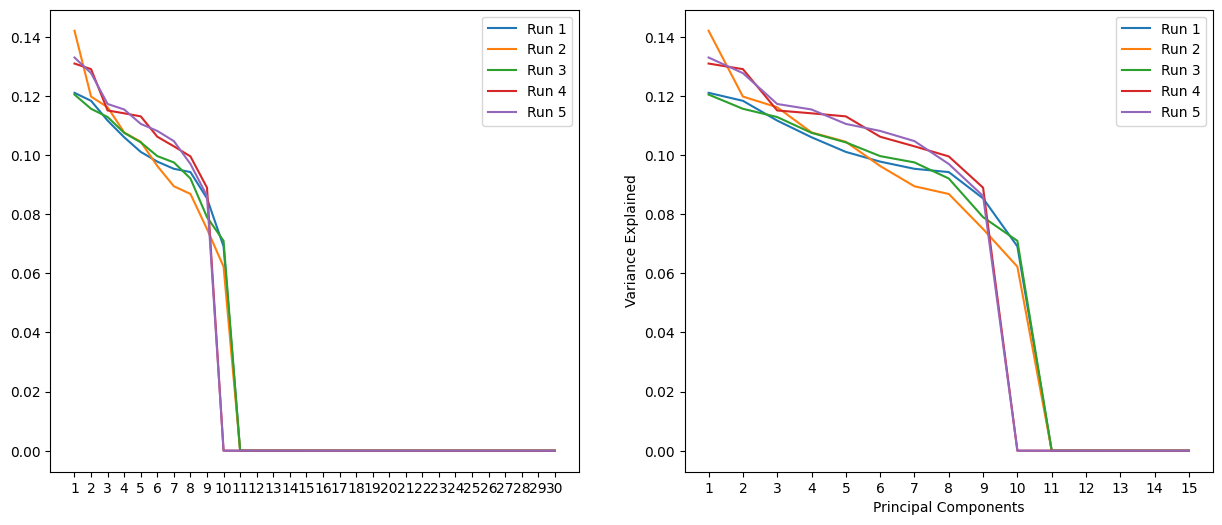
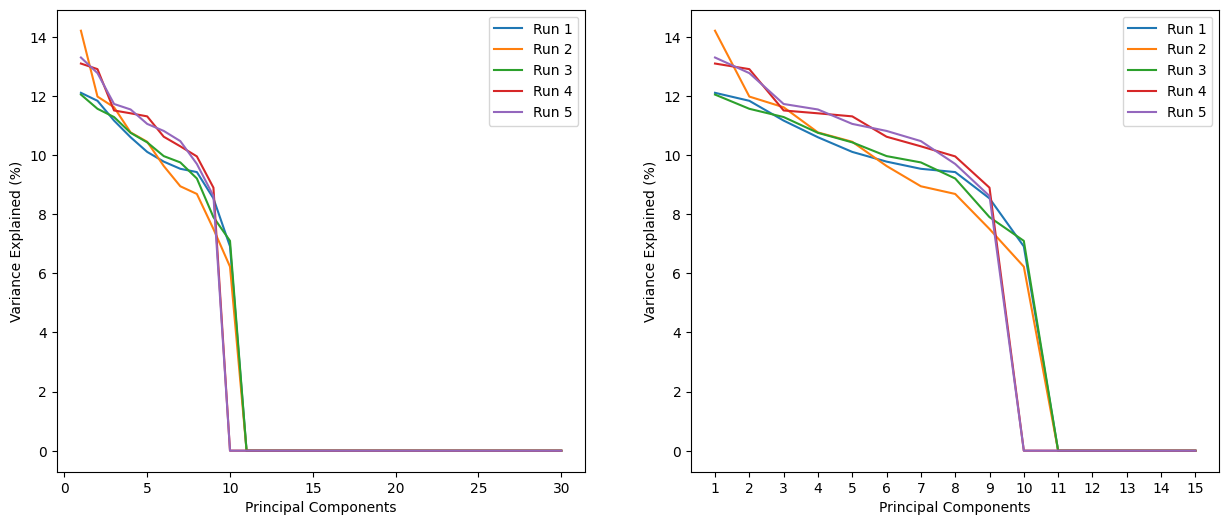
Code

diff --git a/reconstructions.py b/reconstructions.py
@@ -25,7 +25,7 @@ tfd = tfp.distributions
 
 
 
-run = 2
+run = 3
 encoding_dim = 30
 n_flows = 0
 beta = 0.0001
@@ -371,33 +371,78 @@ vae.load_weights("Variational Eagle/Weights/Normalising Flow Balanced/planar_new
 extracted_features = np.load("Variational Eagle/Extracted Features/Normalising Flow Balanced/planar_new_latent_" + str(encoding_dim) + "_beta_" + beta_name + "_epoch_" + str(epochs) + "_flows_" + str(n_flows) + "_" + str(run) + "_default_transformed.npy")
 
 
-pca = PCA(n_components=0.999, svd_solver="full").fit(extracted_features)
-pca_top = PCA(n_components=4, svd_solver="full").fit(extracted_features)
+
+
+
+# pca = PCA(n_components=0.999, svd_solver="full").fit(extracted_features)
+# pca_top = PCA(n_components=4, svd_solver="full").fit(extracted_features)
+#
+#
+# # number of images to reconstruct
+# n = 12
+#
+#
+# # get the images to reconstruct
+# random.seed(5)
+# reconstruction_indices = random.sample(range(train_images.shape[0]), n)
+# extracted_features = extracted_features[reconstruction_indices]
+#
+#
+# pca_features = pca.transform(extracted_features)
+# pca_features = pca.inverse_transform(pca_features)
+#
+# pca_features_top = pca_top.transform(extracted_features)
+# pca_features_top = pca_top.inverse_transform(pca_features_top)
+#
+# reconstructions = vae.decoder.predict(extracted_features)
+# pca_reconstructions = vae.decoder.predict(pca_features)
+# pca_reconstructions_top = vae.decoder.predict(pca_features_top)
+#
+# original_images = train_images[reconstruction_indices]
+#
+# fig, axs = plt.subplots(4, n, figsize=(n*10, 40))
+#
+# for i in range(0, n):
+#
+#     axs[0][i].imshow(original_images[i])
+#     axs[0][i].set_aspect("auto")
+#     axs[0][i].tick_params(axis='both', which='both', length=0, labelbottom=False, labelleft=False)
+#
+#     axs[1][i].imshow(reconstructions[i])
+#     axs[1][i].set_aspect("auto")
+#     axs[1][i].tick_params(axis='both', which='both', length=0, labelbottom=False, labelleft=False)
+#
+#     axs[2][i].imshow(pca_reconstructions[i])
+#     axs[2][i].set_aspect("auto")
+#     axs[2][i].tick_params(axis='both', which='both', length=0, labelbottom=False, labelleft=False)
+#
+#     axs[3][i].imshow(pca_reconstructions_top[i])
+#     axs[3][i].set_aspect("auto")
+#     axs[3][i].tick_params(axis='both', which='both', length=0, labelbottom=False, labelleft=False)
+#
+# plt.savefig("Variational Eagle/Plots/latent_vs_pca_vs_top", bbox_inches="tight")
+# plt.show()
+
+
+
+
+
+
+
 
 
 # number of images to reconstruct
 n = 12
 
-
 # get the images to reconstruct
 random.seed(5)
 reconstruction_indices = random.sample(range(train_images.shape[0]), n)
-extracted_features = extracted_features[reconstruction_indices]
-
-
-pca_features = pca.transform(extracted_features)
-pca_features = pca.inverse_transform(pca_features)
-
-pca_features_top = pca_top.transform(extracted_features)
-pca_features_top = pca_top.inverse_transform(pca_features_top)
-
-reconstructions = vae.decoder.predict(extracted_features)
-pca_reconstructions = vae.decoder.predict(pca_features)
-pca_reconstructions_top = vae.decoder.predict(pca_features_top)
+extracted_features_reconstruct = extracted_features[reconstruction_indices]
 
 original_images = train_images[reconstruction_indices]
 
-fig, axs = plt.subplots(4, n, figsize=(n*10, 40))
+
+fig, axs = plt.subplots(11, n)
 
 for i in range(0, n):
 
@@ -405,22 +450,22 @@ for i in range(0, n):
     axs[0][i].set_aspect("auto")
     axs[0][i].tick_params(axis='both', which='both', length=0, labelbottom=False, labelleft=False)
 
-    axs[1][i].imshow(reconstructions[i])
-    axs[1][i].set_aspect("auto")
-    axs[1][i].tick_params(axis='both', which='both', length=0, labelbottom=False, labelleft=False)
+    for j in range(10, 1, -1):
 
-    axs[2][i].imshow(pca_reconstructions[i])
-    axs[2][i].set_aspect("auto")
-    axs[2][i].tick_params(axis='both', which='both', length=0, labelbottom=False, labelleft=False)
+        pca = PCA(n_components=4, svd_solver="full").fit(extracted_features)
 
-    axs[3][i].imshow(pca_reconstructions_top[i])
-    axs[3][i].set_aspect("auto")
-    axs[3][i].tick_params(axis='both', which='both', length=0, labelbottom=False, labelleft=False)
+        pca_features = pca.transform(extracted_features_reconstruct[j])
+        pca_features = pca.inverse_transform(pca_features)
 
-plt.savefig("Variational Eagle/Plots/latent_vs_pca_vs_top", bbox_inches="tight")
+        pca_reconstruction = vae.decoder.predict(pca_features)
+
+        axs[j+1][i].imshow(pca_reconstruction)
+        axs[j+1][i].set_aspect("auto")
+        axs[j+1][i].tick_params(axis='both', which='both', length=0, labelbottom=False, labelleft=False)
+
+plt.savefig("Variational Eagle/Plots/reconstruction_optimal_pca_features")
 plt.show()
-
-
+plt.close()
 
 
 
@@ -430,65 +475,65 @@ plt.show()
 
 # flows vs normal reconstruction
 
-# get the images to reconstruct
-random.seed(5)
-reconstruction_indices = random.sample(range(train_images.shape[0]), n)
-
-# original images
-original_images = train_images[reconstruction_indices]
-
-
-
-# normal model reconstructions
-n_flows = 0
-
-# load the weights
-vae.load_weights("Variational Eagle/Weights/Normalising Flow Balanced/planar_new_latent_" + str(encoding_dim) + "_beta_" + beta_name + "_epoch_" + str(epochs) + "_flows_" + str(n_flows) + "_" + str(run) + "_default.weights.h5")
-
-# get the extracted features
-extracted_features = np.load("Variational Eagle/Extracted Features/Normalising Flow Balanced/planar_new_latent_" + str(encoding_dim) + "_beta_" + beta_name + "_epoch_" + str(epochs) + "_flows_" + str(n_flows) + "_" + str(run) + "_default_transformed.npy")
-extracted_features = extracted_features[reconstruction_indices]
-
-# reconstruct the images
-reconstructions_normal = vae.decoder.predict(extracted_features)
-
-
-
-# flow model reconstructions
-n_flows = 3
-
-# load the weights
-vae.load_weights("Variational Eagle/Weights/Normalising Flow Balanced/planar_new_latent_" + str(encoding_dim) + "_beta_" + beta_name + "_epoch_" + str(epochs) + "_flows_" + str(n_flows) + "_" + str(run) + "_default.weights.h5")
-
-# get the extracted features
-extracted_features = np.load("Variational Eagle/Extracted Features/Normalising Flow Balanced/planar_new_latent_" + str(encoding_dim) + "_beta_" + beta_name + "_epoch_" + str(epochs) + "_flows_" + str(n_flows) + "_" + str(run) + "_default_transformed.npy")
-extracted_features = extracted_features[reconstruction_indices]
-
-# reconstruct the images
-reconstructions_flows = vae.decoder.predict(extracted_features)
-
-
-# number of images to reconstruct
-n = 12
-
-fig, axs = plt.subplots(3, n, figsize=(n*10, 30))
-
-for i in range(0, n):
-
-    axs[0][i].imshow(original_images[i])
-    axs[0][i].set_aspect("auto")
-    axs[0][i].tick_params(axis='both', which='both', length=0, labelbottom=False, labelleft=False)
-
-    axs[1][i].imshow(reconstructions_normal[i])
-    axs[1][i].set_aspect("auto")
-    axs[1][i].tick_params(axis='both', which='both', length=0, labelbottom=False, labelleft=False)
-
-    axs[2][i].imshow(reconstructions_flows[i])
-    axs[2][i].set_aspect("auto")
-    axs[2][i].tick_params(axis='both', which='both', length=0, labelbottom=False, labelleft=False)
-
-plt.savefig("Variational Eagle/Plots/flows_vs_normal", bbox_inches="tight")
-plt.show()
+# # get the images to reconstruct
+# random.seed(5)
+# reconstruction_indices = random.sample(range(train_images.shape[0]), n)
+#
+# # original images
+# original_images = train_images[reconstruction_indices]
+#
+#
+#
+# # normal model reconstructions
+# n_flows = 0
+#
+# # load the weights
+# vae.load_weights("Variational Eagle/Weights/Normalising Flow Balanced/planar_new_latent_" + str(encoding_dim) + "_beta_" + beta_name + "_epoch_" + str(epochs) + "_flows_" + str(n_flows) + "_" + str(run) + "_default.weights.h5")
+#
+# # get the extracted features
+# extracted_features = np.load("Variational Eagle/Extracted Features/Normalising Flow Balanced/planar_new_latent_" + str(encoding_dim) + "_beta_" + beta_name + "_epoch_" + str(epochs) + "_flows_" + str(n_flows) + "_" + str(run) + "_default_transformed.npy")
+# extracted_features = extracted_features[reconstruction_indices]
+#
+# # reconstruct the images
+# reconstructions_normal = vae.decoder.predict(extracted_features)
+#
+#
+#
+# # flow model reconstructions
+# n_flows = 3
+#
+# # load the weights
+# vae.load_weights("Variational Eagle/Weights/Normalising Flow Balanced/planar_new_latent_" + str(encoding_dim) + "_beta_" + beta_name + "_epoch_" + str(epochs) + "_flows_" + str(n_flows) + "_" + str(run) + "_default.weights.h5")
+#
+# # get the extracted features
+# extracted_features = np.load("Variational Eagle/Extracted Features/Normalising Flow Balanced/planar_new_latent_" + str(encoding_dim) + "_beta_" + beta_name + "_epoch_" + str(epochs) + "_flows_" + str(n_flows) + "_" + str(run) + "_default_transformed.npy")
+# extracted_features = extracted_features[reconstruction_indices]
+#
+# # reconstruct the images
+# reconstructions_flows = vae.decoder.predict(extracted_features)
+#
+#
+# # number of images to reconstruct
+# n = 12
+#
+# fig, axs = plt.subplots(3, n, figsize=(n*10, 30))
+#
+# for i in range(0, n):
+#
+#     axs[0][i].imshow(original_images[i])
+#     axs[0][i].set_aspect("auto")
+#     axs[0][i].tick_params(axis='both', which='both', length=0, labelbottom=False, labelleft=False)
+#
+#     axs[1][i].imshow(reconstructions_normal[i])
+#     axs[1][i].set_aspect("auto")
+#     axs[1][i].tick_params(axis='both', which='both', length=0, labelbottom=False, labelleft=False)
+#
+#     axs[2][i].imshow(reconstructions_flows[i])
+#     axs[2][i].set_aspect("auto")
+#     axs[2][i].tick_params(axis='both', which='both', length=0, labelbottom=False, labelleft=False)
+#
+# plt.savefig("Variational Eagle/Plots/flows_vs_normal", bbox_inches="tight")
+# plt.show()
 
 
 

diff --git a/pca.py b/pca.py
@@ -38,15 +38,19 @@ for run in [1, 2, 3, 4, 5]:
     print(len(extracted_features))
 
     pca = PCA(n_components=encoding_dim, svd_solver="full").fit(extracted_features)
-    axs[0].plot(range(1, encoding_dim+1), pca.explained_variance_ratio_, label="Run "+str(run))
-    axs[1].plot(range(1, 16), pca.explained_variance_ratio_[:15], label="Run "+str(run))
+    axs[0].plot(range(1, encoding_dim+1), (pca.explained_variance_ratio_)*100, label="Run "+str(run))
+    axs[1].plot(range(1, 16), (pca.explained_variance_ratio_[:15])*100, label="Run "+str(run))
     print(pca.explained_variance_ratio_)
     print(pca.explained_variance_ratio_.shape)
 
 
-plt.ylabel("Variance Explained")
-plt.xlabel("Principal Components")
-axs[0].set_xticks(range(1, encoding_dim+1))
+axs[0].set_ylabel("Variance Explained (%)")
+axs[0].set_xlabel("Principal Components")
+
+axs[1].set_ylabel("Variance Explained (%)")
+axs[1].set_xlabel("Principal Components")
+
+# axs[0].set_xticks(range(1, encoding_dim+1))
 axs[1].set_xticks(range(1, 16))
 
 axs[0].legend()

diff --git a/test.py b/test.py
@@ -13,10 +13,5 @@ import random
 
 
 
-A = list(range(1, 751))
-print(A)
-print(len(A))
-
-A = A[:10]
-print(A)
-print(len(A))
+for i in range(10, 0, -1):
+    print(i)
